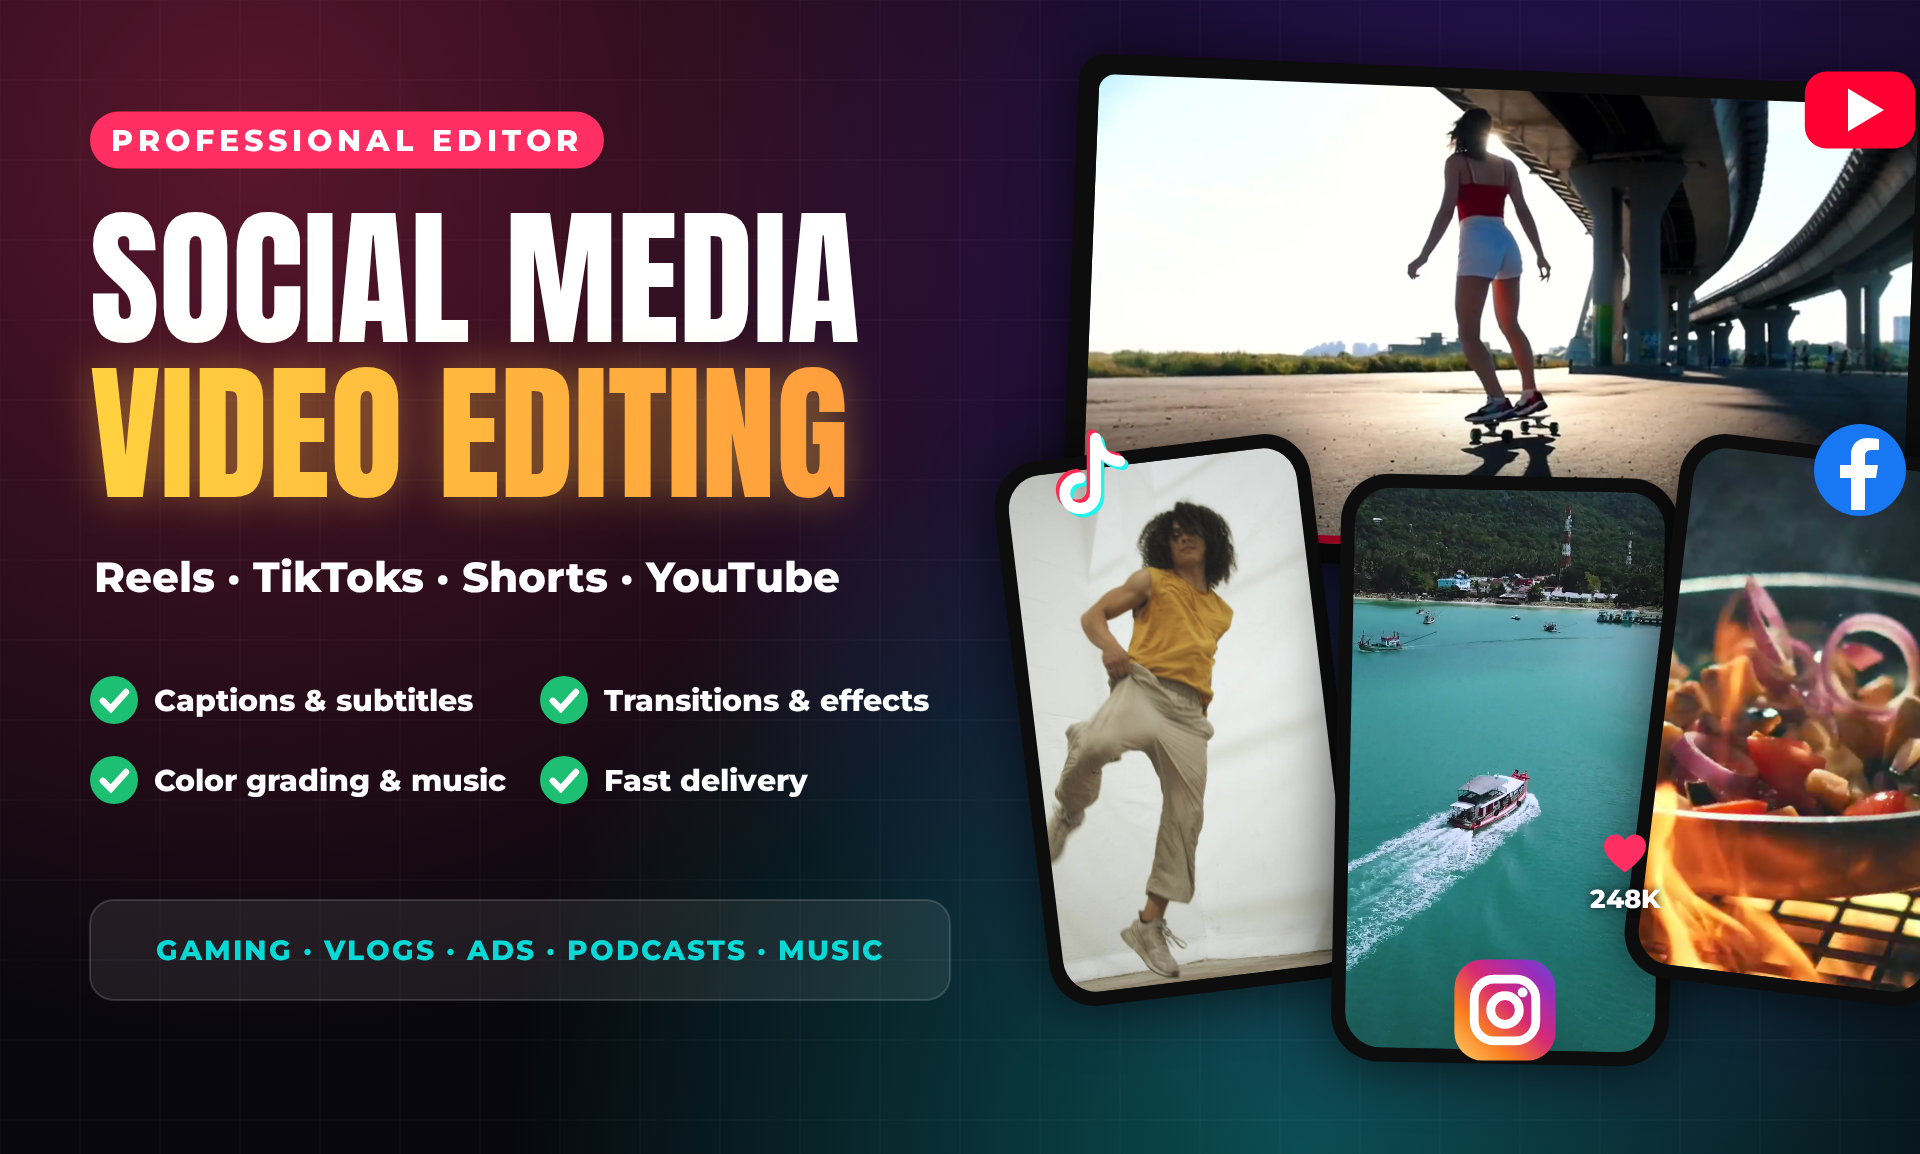
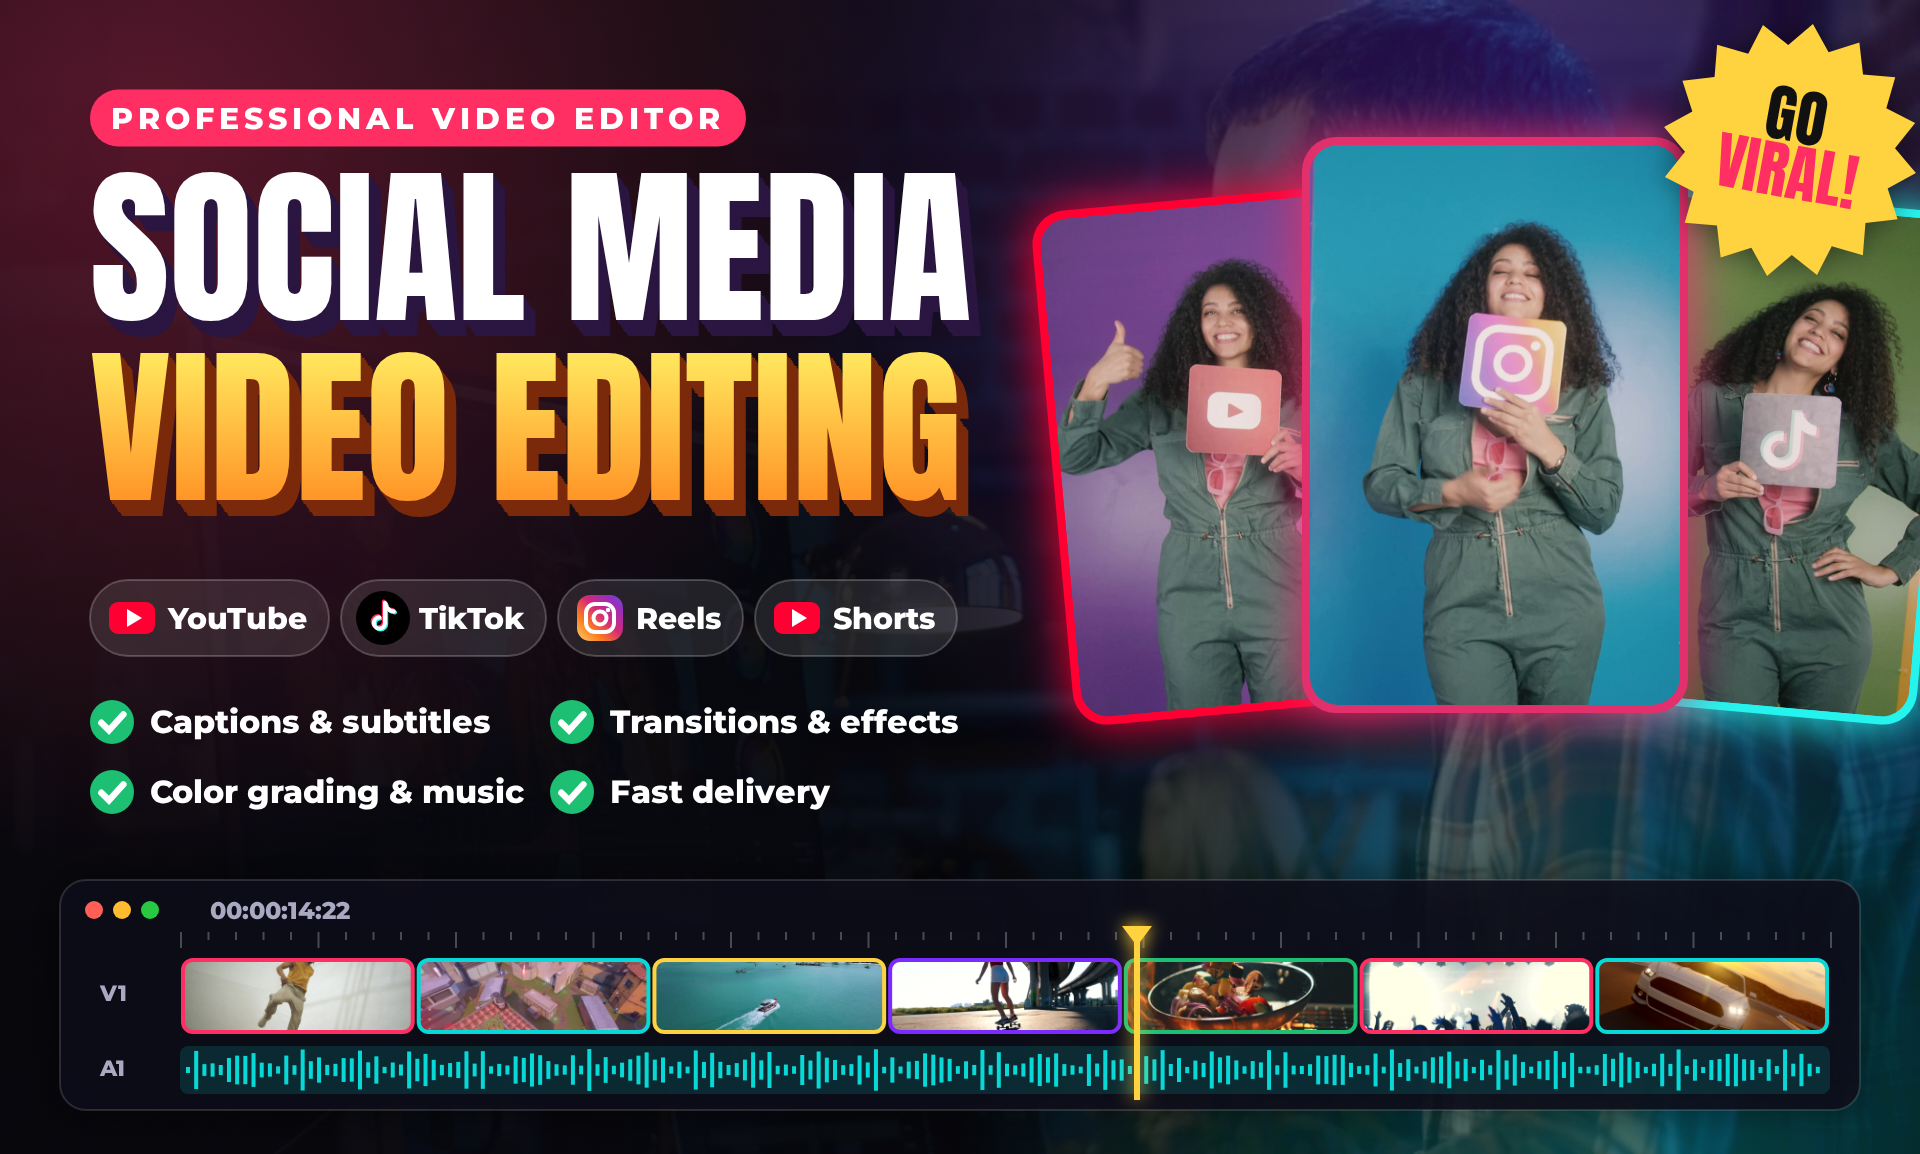
Redesign Fiverr thumbnail with creator and editor photos, platform chips and editing timeline
Claude-Session: https://claude.ai/code/session_01QJKurB1pqt4FofLm8XLykV

diff --git a/promo-video/thumbnail.html b/promo-video/thumbnail.html
@@ -20,69 +20,116 @@
 <script>
 const TW = 1920, TH = 1154;
 const c = document.getElementById('c').getContext('2d');
+const IMG = {};
+const loadImg = (k, src) => new Promise((res) => { const i = new Image(); i.onload = i.onerror = () => res(); i.src = src; IMG[k] = i; });
+
+function cover(img, x, y, w, h, sx = 0, sy = 0, sw = img.naturalWidth, sh = img.naturalHeight) {
+  const s = Math.max(w / sw, h / sh), cw = w / s, ch = h / s;
+  c.drawImage(img, sx + (sw - cw) / 2, sy + (sh - ch) / 2, cw, ch, x, y, w, h);
+}
 
 function drawThumb() {
-  // background: dark gradient + soft color blobs + grid
+  // ---------- background: the editor at work, darkened toward the text side
   c.fillStyle = '#07070d'; c.fillRect(0, 0, TW, TH);
+  if (IMG.editor.naturalWidth) {
+    c.save(); c.filter = 'saturate(1.25) contrast(1.05) brightness(.6)';
+    c.save(); c.translate(TW, 0); c.scale(-1, 1); cover(IMG.editor, 0, 0, TW, TH); c.restore(); // mirrored: editor faces the text
+    c.restore();
+  }
+  const lg = c.createLinearGradient(0, 0, TW, 0);
+  lg.addColorStop(0, 'rgba(7,7,13,.97)'); lg.addColorStop(0.45, 'rgba(7,7,13,.9)'); lg.addColorStop(0.75, 'rgba(7,7,13,.45)'); lg.addColorStop(1, 'rgba(7,7,13,.35)');
+  c.fillStyle = lg; c.fillRect(0, 0, TW, TH);
   c.save(); c.globalCompositeOperation = 'screen';
-  for (const [col, x, y, r] of [[C.pink, 250, 150, 900], [C.purple, 1500, 300, 900], [C.cyan, 1300, 1150, 800]]) {
-    const g = c.createRadialGradient(x, y, 0, x, y, r); g.addColorStop(0, col + '55'); g.addColorStop(1, col + '00');
+  for (const [col, x, y, r] of [[C.pink, 150, 120, 750], [C.purple, 1500, 150, 800], [C.cyan, 1650, 1100, 700]]) {
+    const g = c.createRadialGradient(x, y, 0, x, y, r); g.addColorStop(0, col + '50'); g.addColorStop(1, col + '00');
     c.fillStyle = g; c.fillRect(0, 0, TW, TH);
   }
   c.restore();
-  c.strokeStyle = 'rgba(255,255,255,.04)'; c.lineWidth = 1;
-  for (let x = 0; x < TW; x += 80) { c.beginPath(); c.moveTo(x, 0); c.lineTo(x, TH); c.stroke(); }
-  for (let y = 0; y < TH; y += 80) { c.beginPath(); c.moveTo(0, y); c.lineTo(TW, y); c.stroke(); }
 
-  // ---- right side: a landscape YouTube video behind three tilted phones
-  const card = (id, t, x, y, w, h, rot, r, border) => {
-    c.save(); c.translate(x, y); c.rotate(rot);
-    c.shadowColor = 'rgba(0,0,0,.7)'; c.shadowBlur = 60; c.fillStyle = '#0d0d0d'; rr(c, -w / 2 - 14, -h / 2 - 14, w + 28, h + 28, r + 12); c.fill(); c.shadowBlur = 0;
-    slotRect(c, id, t, -w / 2, -h / 2, w, h, r);
-    if (border) { c.strokeStyle = border; c.lineWidth = 6; rr(c, -w / 2 - 14, -h / 2 - 14, w + 28, h + 28, r + 12); c.stroke(); }
+  // ---------- right: three platform cards (YouTube / Instagram / TikTok)
+  const P = IMG.platforms;
+  const panels = [
+    { sx: 40, col: '#ff0033', x: 1225, y: 455, rot: -0.09, w: 330, h: 500 },
+    { sx: 1244, col: '#25f4ee', x: 1765, y: 455, rot: 0.09, w: 330, h: 500 },
+    { sx: 636, col: '#e1306c', x: 1495, y: 425, rot: 0, w: 370, h: 560 },
+  ];
+  for (const p of panels) {
+    c.save(); c.translate(p.x, p.y); c.rotate(p.rot);
+    c.shadowColor = p.col; c.shadowBlur = 50; c.fillStyle = p.col; rr(c, -p.w / 2 - 8, -p.h / 2 - 8, p.w + 16, p.h + 16, 34); c.fill(); c.shadowBlur = 0;
+    c.save(); rr(c, -p.w / 2, -p.h / 2, p.w, p.h, 28); c.clip();
+    if (P.naturalWidth) cover(P, -p.w / 2, -p.h / 2, p.w, p.h, p.sx, 20, 600, 900);
     c.restore();
-  };
-  // landscape "YouTube" frame
-  c.save(); c.translate(1500, 320); c.rotate(0.04);
-  c.shadowColor = 'rgba(0,0,0,.7)'; c.shadowBlur = 60; c.fillStyle = '#0d0d0d'; rr(c, -430, -250, 860, 500, 26); c.fill(); c.shadowBlur = 0;
-  slotRect(c, 'skate', 1.5, -410, -230, 820, 460, 16);
-  c.fillStyle = 'rgba(255,255,255,.35)'; c.fillRect(-410, 222, 820, 8); c.fillStyle = '#ff0033'; c.fillRect(-410, 222, 520, 8);
+    c.restore();
+  }
+  // "GO VIRAL" starburst sticker
+  c.save(); c.translate(1790, 150); c.rotate(0.18);
+  c.fillStyle = C.yellow; c.shadowColor = 'rgba(0,0,0,.5)'; c.shadowBlur = 30;
+  c.beginPath(); for (let i = 0; i < 32; i++) { const r = i % 2 ? 105 : 128, a = (i * Math.PI) / 16; c.lineTo(Math.cos(a) * r, Math.sin(a) * r); } c.fill(); c.shadowBlur = 0;
+  text(c, 'GO', 0, -26, { size: 62, color: '#111' }); text(c, 'VIRAL!', 0, 30, { size: 62, color: C.pink });
   c.restore();
-  
-  // phones
-  card('dance', 2.0, 1180, 720, 290, 520, -0.12, 34, null);
-  card('travel', 1.0, 1505, 770, 310, 560, 0.02, 36, null);
-  card('food', 2.5, 1810, 720, 290, 520, 0.12, 34, null);
-  platformIcon(c, 'youtube', 1860, 110, 120);
-  platformIcon(c, 'tiktok', 1090, 480, 110);
-  platformIcon(c, 'instagram', 1505, 1010, 110);
-  platformIcon(c, 'facebook', 1860, 470, 100);
-  // hearts / likes on the middle phone
-  c.save(); c.translate(1600, 830); c.scale(0.5, 0.5); c.fillStyle = C.pink; c.fill(ICON.heart); c.restore();
-  text(c, '248K', 1625, 900, { font: 'Mont', weight: 800, size: 26, glow: 'rgba(0,0,0,.8)', blur: 10 });
 
-  // ---- left side: the message
+  // ---------- left: the message
   const L = 90;
-  tag(c, 'PROFESSIONAL EDITOR', L, 140, { align: 'left', bg: C.pink, size: 30, ls: 5 });
-  text(c, 'SOCIAL MEDIA', L, 300, { size: 150, align: 'left', color: '#fff' });
-  const g = c.createLinearGradient(L, 0, L + 800, 0); g.addColorStop(0, C.yellow); g.addColorStop(1, '#ff9a3c');
-  text(c, 'VIDEO EDITING', L, 455, { size: 150, align: 'left', color: g, glow: 'rgba(255,190,60,.45)', blur: 40 });
-  text(c, 'Reels · TikToks · Shorts · YouTube', L + 4, 580, { font: 'Mont', weight: 800, size: 42, align: 'left', color: '#fff' });
-  // feature checklist
+  tag(c, 'PROFESSIONAL VIDEO EDITOR', L, 118, { align: 'left', bg: C.pink, size: 30, ls: 5 });
+  // title with a 3D extrusion
+  const title = (s, y, fill, depthCol) => {
+    for (let d = 10; d > 0; d--) text(c, s, L + d * 1.2, y + d * 1.6, { size: 172, align: 'left', color: depthCol });
+    text(c, s, L, y, { size: 172, align: 'left', color: fill });
+  };
+  title('SOCIAL MEDIA', 272, '#ffffff', '#2a1640');
+  const g = c.createLinearGradient(0, 360, 0, 520); g.addColorStop(0, '#ffe45c'); g.addColorStop(1, '#ff8a1f');
+  title('VIDEO EDITING', 452, g, '#7a2a0a');
+  // platform chips
+  let x = L;
+  for (const [icon, label] of [['youtube', 'YouTube'], ['tiktok', 'TikTok'], ['instagram', 'Reels'], ['youtube', 'Shorts']]) {
+    const w = measure(c, label, { font: 'Mont', weight: 800, size: 30 }) + 100;
+    c.fillStyle = 'rgba(255,255,255,.1)'; rr(c, x, 580, w, 76, 38); c.fill();
+    c.strokeStyle = 'rgba(255,255,255,.22)'; c.lineWidth = 2; c.stroke();
+    if (icon === 'tiktok') { c.fillStyle = '#000'; c.beginPath(); c.arc(x + 42, 618, 27, 0, 7); c.fill(); }
+    platformIcon(c, icon, x + 42, 618, icon === 'tiktok' ? 40 : 50);
+    text(c, label, x + 78, 620, { font: 'Mont', weight: 800, size: 30, align: 'left' });
+    x += w + 12;
+  }
+  // checklist
   ['Captions & subtitles', 'Transitions & effects', 'Color grading & music', 'Fast delivery'].forEach((s, i) => {
-    const x = L + (i % 2) * 450, y = 700 + Math.floor(i / 2) * 80;
-    c.fillStyle = C.green; c.beginPath(); c.arc(x + 24, y, 24, 0, 7); c.fill();
-    c.save(); c.translate(x + 4, y - 20); c.scale(0.4, 0.4); c.strokeStyle = '#fff'; c.lineWidth = 16; c.lineCap = 'round'; c.stroke(ICON.check); c.restore();
-    text(c, s, x + 64, y + 2, { font: 'Mont', weight: 800, size: 30, align: 'left' });
+    const cx = L + (i % 2) * 460, cy = 722 + Math.floor(i / 2) * 70;
+    c.fillStyle = C.green; c.beginPath(); c.arc(cx + 22, cy, 22, 0, 7); c.fill();
+    c.save(); c.translate(cx + 3, cy - 19); c.scale(0.38, 0.38); c.strokeStyle = '#fff'; c.lineWidth = 17; c.lineCap = 'round'; c.stroke(ICON.check); c.restore();
+    text(c, s, cx + 60, cy + 2, { font: 'Mont', weight: 800, size: 32, align: 'left' });
   });
-  // bottom strip: niches
-  c.fillStyle = 'rgba(255,255,255,.08)'; rr(c, L, 900, 860, 100, 24); c.fill();
-  c.strokeStyle = 'rgba(255,255,255,.15)'; c.lineWidth = 2; c.stroke();
-  text(c, 'GAMING · VLOGS · ADS · PODCASTS · MUSIC', L + 430, 952, { font: 'Mont', weight: 800, size: 28, ls: 2, color: C.cyan });
+
+  // ---------- bottom: an editing timeline across the whole image
+  const bx = 60, by = 880, bw = TW - 120, bh = 230;
+  c.save(); c.shadowColor = 'rgba(0,0,0,.6)'; c.shadowBlur = 40;
+  c.fillStyle = 'rgba(14,14,26,.88)'; rr(c, bx, by, bw, bh, 26); c.fill(); c.restore();
+  c.strokeStyle = 'rgba(255,255,255,.14)'; c.lineWidth = 2; rr(c, bx, by, bw, bh, 26); c.stroke();
+  ['#ff5f57', '#febc2e', '#28c840'].forEach((col, i) => { c.fillStyle = col; c.beginPath(); c.arc(bx + 34 + i * 28, by + 30, 9, 0, 7); c.fill(); });
+  text(c, '00:00:14:22', bx + 150, by + 32, { font: 'Mont', weight: 800, size: 24, align: 'left', color: C.muted });
+  // ruler
+  c.fillStyle = 'rgba(255,255,255,.25)';
+  for (let i = 0; i <= 60; i++) c.fillRect(bx + 120 + i * ((bw - 150) / 60), by + 52, 2, i % 5 ? 8 : 16);
+  text(c, 'V1', bx + 40, by + 115, { font: 'Mont', weight: 800, size: 22, align: 'left', color: C.muted });
+  text(c, 'A1', bx + 40, by + 190, { font: 'Mont', weight: 800, size: 22, align: 'left', color: C.muted });
+  const clips = ['dance', 'fps', 'travel', 'skate', 'food', 'music', 'car'];
+  const cols = [C.pink, C.cyan, C.yellow, C.purple, C.green, C.pink, C.cyan];
+  const tx0 = bx + 120, tw0 = bw - 150, cw = tw0 / clips.length;
+  clips.forEach((id, i) => {
+    slotRect(c, id, 2, tx0 + i * cw + 3, by + 80, cw - 6, 72, 10);
+    c.strokeStyle = cols[i]; c.lineWidth = 4; rr(c, tx0 + i * cw + 3, by + 80, cw - 6, 72, 10); c.stroke();
+  });
+  c.fillStyle = 'rgba(8,217,214,.14)'; rr(c, tx0, by + 166, tw0, 48, 8); c.fill();
+  for (let i = 0; i < 200; i++) { const hh = 6 + Math.abs(Math.sin(i * 1.7) * Math.cos(i * 0.45)) * 36; c.fillStyle = C.cyan; c.fillRect(tx0 + 6 + i * (tw0 - 12) / 200, by + 190 - hh / 2, 4, hh); }
+  const ph = tx0 + tw0 * 0.58;
+  c.fillStyle = C.yellow; c.shadowColor = C.yellow; c.shadowBlur = 18; c.fillRect(ph - 3, by + 50, 6, 170);
+  c.beginPath(); c.moveTo(ph - 15, by + 46); c.lineTo(ph + 15, by + 46); c.lineTo(ph, by + 66); c.fill(); c.shadowBlur = 0;
 }
 
-window.renderThumb = async () => { drawThumb(); await loadPending(); drawThumb(); return document.getElementById('c').toDataURL('image/png'); };
-if (!navigator.webdriver) document.fonts.ready.then(async () => { drawThumb(); await loadPending(); drawThumb(); });
+window.renderThumb = async () => {
+  await Promise.all([loadImg('editor', 'media/thumb/editor.png'), loadImg('platforms', 'media/thumb/platforms.png')]);
+  drawThumb(); await loadPending(); drawThumb();
+  return document.getElementById('c').toDataURL('image/png');
+};
+if (!navigator.webdriver) document.fonts.ready.then(() => window.renderThumb());
 </script>
 </body>
 </html>
